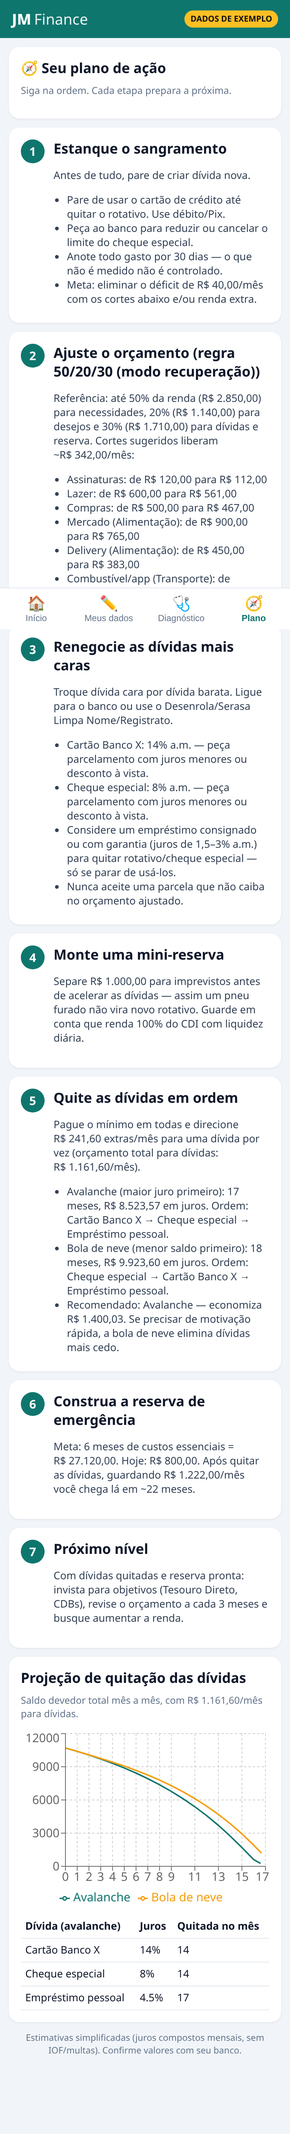
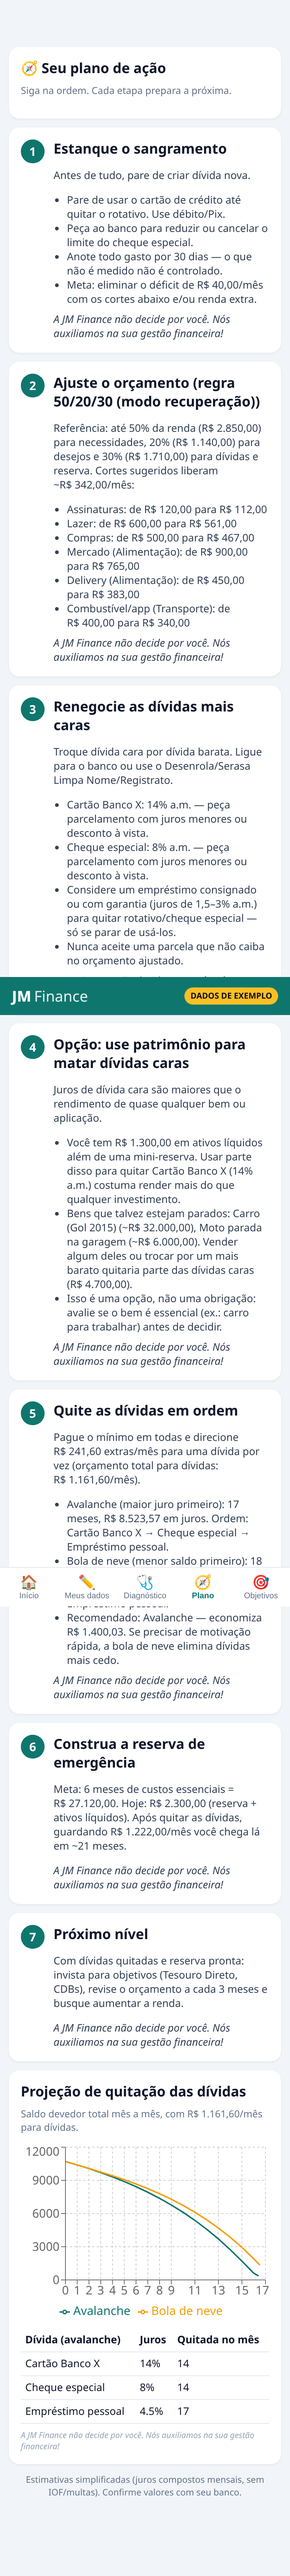
feat: patrimônio, aba Objetivos (inclui aposentadoria) e aviso 'não decide por você'
- Meus dados: seção Patrimônio (imóvel, veículo, investimentos, conta/poupança, outros; liquidez)
- Diagnóstico: patrimônio total, patrimônio líquido e ativos líquidos; ativos líquidos contam como reserva; score considera patrimônio negativo
- Plano: opção (não obrigação) de usar ativos líquidos/bens parados para quitar dívidas caras
- Nova aba Objetivos: aporte mensal, viabilidade após plano de dívidas, progresso e alternativas (prazo, valor, corte)
- Aposentadoria: capital necessário e aporte com rendimento real editável (padrão 0,5% a.m.)
- Aviso discreto abaixo de cada bloco de resultado
- Migração automática de dados antigos do localStorage; exemplo inclui bens e objetivos

diff --git a/src/finance.ts b/src/finance.ts
@@ -2,7 +2,13 @@ export type Income = { id: string; name: string; amount: number };
 export type Expense = { id: string; name: string; amount: number; category: Category; kind: 'fixa' | 'variavel' };
 export type DebtType = 'cartao_rotativo' | 'cheque_especial' | 'emprestimo_pessoal' | 'consignado' | 'financiamento' | 'outro';
 export type Debt = { id: string; name: string; type: DebtType; balance: number; rate: number; minPayment: number };
-export type Data = { incomes: Income[]; expenses: Expense[]; debts: Debt[]; reserve: number; isExample?: boolean };
+export type AssetType = 'imovel' | 'veiculo' | 'investimentos' | 'conta' | 'outros';
+export type Asset = { id: string; name: string; type: AssetType; value: number; liquid: boolean };
+export type GoalType = 'viagem' | 'compra' | 'aposentadoria' | 'reserva' | 'outro';
+export type Priority = 'alta' | 'media' | 'baixa';
+export type Retire = { monthlyIncome: number; age: number; retireAge: number; rate: number };
+export type Goal = { id: string; name: string; type: GoalType; target: number; date: string; saved: number; priority: Priority; retire?: Retire };
+export type Data = { incomes: Income[]; expenses: Expense[]; debts: Debt[]; reserve: number; assets: Asset[]; goals: Goal[]; isExample?: boolean };
 export type Category = 'moradia' | 'alimentacao' | 'transporte' | 'saude' | 'educacao' | 'lazer' | 'assinaturas' | 'compras' | 'outros';
 
 export const CATEGORIES: Record<Category, { label: string; group: 'necessidade' | 'desejo' }> = {
@@ -21,11 +27,30 @@ export const DEBT_TYPES: Record<DebtType, string> = {
   consignado: 'Consignado', financiamento: 'Financiamento', outro: 'Outro',
 };
 
+export const ASSET_TYPES: Record<AssetType, { label: string; liquid: boolean }> = {
+  imovel: { label: 'Imóvel', liquid: false }, veiculo: { label: 'Veículo', liquid: false },
+  investimentos: { label: 'Investimentos', liquid: true }, conta: { label: 'Saldo em conta/poupança', liquid: true }, outros: { label: 'Outros', liquid: false },
+};
+export const GOAL_TYPES: Record<GoalType, string> = { viagem: 'Viagem', compra: 'Compra', aposentadoria: 'Aposentadoria', reserva: 'Reserva', outro: 'Outro' };
+export const PRIORITIES: Record<Priority, string> = { alta: 'Alta', media: 'Média', baixa: 'Baixa' };
+export const DISCLAIMER = 'A JM Finance não decide por você. Nós auxiliamos na sua gestão financeira!';
+
 export const brl = (n: number) => n.toLocaleString('pt-BR', { style: 'currency', currency: 'BRL' });
 export const pct = (n: number) => `${(n * 100).toLocaleString('pt-BR', { maximumFractionDigits: 1 })}%`;
 export const uid = () => Math.random().toString(36).slice(2, 10);
 
-export const emptyData = (): Data => ({ incomes: [], expenses: [], debts: [], reserve: 0 });
+export const emptyData = (): Data => ({ incomes: [], expenses: [], debts: [], reserve: 0, assets: [], goals: [] });
+// Migra dados antigos (sem assets/goals) sem quebrar
+export function migrate(raw: unknown): Data {
+  const d = (raw && typeof raw === 'object' ? raw : {}) as Partial<Data>;
+  const arr = <T,>(v: unknown) => (Array.isArray(v) ? v as T[] : []);
+  return {
+    ...emptyData(), ...d,
+    incomes: arr<Income>(d.incomes), expenses: arr<Expense>(d.expenses), debts: arr<Debt>(d.debts),
+    assets: arr<Asset>(d.assets), goals: arr<Goal>(d.goals), reserve: Number(d.reserve) || 0,
+  };
+}
+const ym = (monthsAhead: number) => { const t = new Date(); t.setMonth(t.getMonth() + monthsAhead); return t.toISOString().slice(0, 7); };
 export const exampleData = (): Data => ({
   isExample: true,
   reserve: 800,
@@ -45,6 +70,16 @@ export const exampleData = (): Data => ({
     { id: uid(), name: 'Cheque especial', type: 'cheque_especial', balance: 1200, rate: 8, minPayment: 150 },
     { id: uid(), name: 'Empréstimo pessoal', type: 'emprestimo_pessoal', balance: 6000, rate: 4.5, minPayment: 420 },
   ],
+  assets: [
+    { id: uid(), name: 'Carro (Gol 2015)', type: 'veiculo', value: 32000, liquid: false },
+    { id: uid(), name: 'Poupança', type: 'conta', value: 1500, liquid: true },
+    { id: uid(), name: 'Moto parada na garagem', type: 'veiculo', value: 6000, liquid: false },
+  ],
+  goals: [
+    { id: uid(), name: 'Viagem para o Nordeste', type: 'viagem', target: 6000, date: ym(12), saved: 300, priority: 'media' },
+    { id: uid(), name: 'Notebook novo', type: 'compra', target: 4000, date: ym(6), saved: 0, priority: 'baixa' },
+    { id: uid(), name: 'Aposentadoria', type: 'aposentadoria', target: 0, date: '', saved: 0, priority: 'alta', retire: { monthlyIncome: 4000, age: 32, retireAge: 65, rate: 0.5 } },
+  ],
 });
 
 const sum = (a: { amount: number }[]) => a.reduce((s, x) => s + (Number(x.amount) || 0), 0);
@@ -63,7 +98,12 @@ export function diagnose(d: Data) {
   const dti = income ? minPayments / income : 0;
   const essentials = d.expenses.filter(e => CATEGORIES[e.category].group === 'necessidade').reduce((s, e) => s + e.amount, 0);
   const wants = expenses - essentials;
-  const reserveMonths = essentials + minPayments > 0 ? d.reserve / (essentials + minPayments) : 0;
+  const assets = d.assets || [];
+  const totalAssets = assets.reduce((s, a) => s + (Number(a.value) || 0), 0);
+  const liquidAssets = assets.filter(a => a.liquid).reduce((s, a) => s + (Number(a.value) || 0), 0);
+  const netWorth = totalAssets + d.reserve - d.debts.reduce((s, x) => s + x.balance, 0);
+  const effReserve = d.reserve + liquidAssets; // ativos líquidos contam como reserva
+  const reserveMonths = essentials + minPayments > 0 ? effReserve / (essentials + minPayments) : 0;
   const expensive = d.debts.filter(x => x.type === 'cartao_rotativo' || x.type === 'cheque_especial' || x.rate >= 5);
   const monthlyInterest = d.debts.reduce((s, x) => s + x.balance * x.rate / 100, 0);
 
@@ -74,6 +114,7 @@ export function diagnose(d: Data) {
   score -= Math.min(20, expensive.length * 10);
   if (reserveMonths < 1) score -= 15; else if (reserveMonths < 3) score -= 8; else if (reserveMonths < 6) score -= 3;
   if (income && totalDebt / income > 6) score -= 10;
+  if (netWorth < 0) score -= 5;
   score = Math.max(0, Math.round(score));
   const level: Level = score < 40 ? 'crítico' : score < 60 ? 'atenção' : score < 80 ? 'estável' : 'saudável';
   const levelText: Record<Level, string> = {
@@ -96,12 +137,15 @@ export function diagnose(d: Data) {
   }
   if (monthlyInterest > 0) f.push({ tone: monthlyInterest > income * 0.05 ? 'bad' : 'warn', title: `Você paga cerca de ${brl(monthlyInterest)} de juros por mês`, text: 'Esse dinheiro não abate nada da dívida — é o "custo" de dever. Quanto antes quitar as dívidas caras, mais sobra.' });
   expensive.forEach(x => f.push({ tone: 'bad', title: `Dívida cara: ${x.name} (${x.rate}% a.m.)`, text: `${x.rate}% ao mês equivale a ~${pct(Math.pow(1 + x.rate / 100, 12) - 1)} ao ano. ${x.type === 'cartao_rotativo' ? 'O rotativo do cartão é a dívida mais cara do Brasil.' : x.type === 'cheque_especial' ? 'Cheque especial nunca deve ser usado como renda extra.' : ''} Troque por uma dívida mais barata ou quite primeiro.` }));
+  if (totalAssets > 0) f.push(netWorth < 0
+    ? { tone: 'bad', title: `Patrimônio líquido negativo: ${brl(netWorth)}`, text: 'Você deve mais do que tem. Prioridade é reduzir dívidas antes de comprar novos bens.' }
+    : { tone: 'good', title: `Patrimônio líquido: ${brl(netWorth)}`, text: `É o que sobraria se você vendesse tudo e quitasse as dívidas. Desse total, ${brl(liquidAssets + d.reserve)} está disponível rápido (líquido).` });
   f.push(reserveMonths < 1
-    ? { tone: 'bad', title: `Reserva cobre ${reserveMonths.toFixed(1)} mês`, text: 'Sem reserva, qualquer imprevisto vira dívida cara. Meta inicial: 1 mês de custos essenciais.' }
-    : reserveMonths < 6 ? { tone: 'warn', title: `Reserva cobre ${reserveMonths.toFixed(1)} meses`, text: 'Bom começo. A meta é de 3 a 6 meses de custos essenciais.' }
+    ? { tone: 'bad', title: `Reserva cobre ${reserveMonths.toFixed(1)} mês`, text: (liquidAssets ? `Considerando reserva + ativos líquidos (${brl(effReserve)}). ` : '') + 'Sem reserva, qualquer imprevisto vira dívida cara. Meta inicial: 1 mês de custos essenciais.' }
+    : reserveMonths < 6 ? { tone: 'warn', title: `Reserva cobre ${reserveMonths.toFixed(1)} meses`, text: (liquidAssets ? `Considerando reserva + ativos líquidos (${brl(effReserve)}). ` : '') + 'Bom começo. A meta é de 3 a 6 meses de custos essenciais.' }
     : { tone: 'good', title: `Reserva cobre ${reserveMonths.toFixed(1)} meses`, text: 'Reserva de emergência completa.' });
 
-  return { reserve: d.reserve, income, expenses, minPayments, totalDebt, outflow, balance, commitment, dti, essentials, wants, reserveMonths, expensive, monthlyInterest, score, level, levelText: levelText[level], findings: f };
+  return { reserve: d.reserve, effReserve, totalAssets, liquidAssets, netWorth, income, expenses, minPayments, totalDebt, outflow, balance, commitment, dti, essentials, wants, reserveMonths, expensive, monthlyInterest, score, level, levelText: levelText[level], findings: f };
 }
 
 export type Strategy = 'avalanche' | 'snowball';
@@ -172,7 +216,17 @@ export function actionPlan(d: Data) {
     ]});
   const surplus = Math.max(0, r.balance + savings);
   const reserveTarget1 = r.essentials + r.minPayments;
-  if (r.reserve < reserveTarget1 * 0.5 && d.debts.length) steps.push({
+  if (r.expensive.length && r.totalAssets > 0) {
+    const expDebt = r.expensive.reduce((s, x) => s + x.balance, 0);
+    const spareLiquid = Math.max(0, r.liquidAssets + r.reserve - Math.min(1000, reserveTarget1 * 0.5));
+    const idle = (d.assets || []).filter(a => !a.liquid && a.type !== 'imovel');
+    const items: string[] = [];
+    if (spareLiquid > 0) items.push(`Você tem ${brl(spareLiquid)} em ativos líquidos além de uma mini-reserva. Usar parte disso para quitar ${order(r.expensive, 'avalanche')[0].name} (${order(r.expensive, 'avalanche')[0].rate}% a.m.) costuma render mais do que qualquer investimento.`);
+    if (idle.length) items.push(`Bens que talvez estejam parados: ${idle.map(a => `${a.name} (~${brl(a.value)})`).join(', ')}. Vender algum deles ou trocar por um mais barato quitaria parte das dívidas caras (${brl(expDebt)}).`);
+    items.push('Isso é uma opção, não uma obrigação: avalie se o bem é essencial (ex.: carro para trabalhar) antes de decidir.');
+    if (spareLiquid > 0 || idle.length) steps.push({ title: 'Opção: use patrimônio para matar dívidas caras', text: 'Juros de dívida cara são maiores que o rendimento de quase qualquer bem ou aplicação.', items });
+  }
+  if (r.effReserve < reserveTarget1 * 0.5 && d.debts.length) steps.push({
     title: 'Monte uma mini-reserva', text: `Separe ${brl(Math.min(1000, reserveTarget1 * 0.5))} para imprevistos antes de acelerar as dívidas — assim um pneu furado não vira novo rotativo. Guarde em conta que renda 100% do CDI com liquidez diária.` });
   let payoff = null as null | { budget: number; av: ReturnType<typeof simulate>; sb: ReturnType<typeof simulate> };
   if (d.debts.length) {
@@ -189,7 +243,61 @@ export function actionPlan(d: Data) {
       ]});
   }
   if (r.reserveMonths < 6) steps.push({
-    title: 'Construa a reserva de emergência', text: `Meta: 6 meses de custos essenciais = ${brl(reserveTarget1 * 6)}. Hoje: ${brl(r.reserve)}. ${surplus > 0 ? `Após quitar as dívidas, guardando ${brl(surplus + r.minPayments)}/mês você chega lá em ~${Math.ceil(Math.max(0, reserveTarget1 * 6 - r.reserve) / (surplus + r.minPayments))} meses.` : 'Primeiro crie folga no orçamento.'}` });
+    title: 'Construa a reserva de emergência', text: `Meta: 6 meses de custos essenciais = ${brl(reserveTarget1 * 6)}. Hoje: ${brl(r.effReserve)}${r.liquidAssets ? ' (reserva + ativos líquidos)' : ''}. ${surplus > 0 ? `Após quitar as dívidas, guardando ${brl(surplus + r.minPayments)}/mês você chega lá em ~${Math.ceil(Math.max(0, reserveTarget1 * 6 - r.effReserve) / (surplus + r.minPayments))} meses.` : 'Primeiro crie folga no orçamento.'}` });
   steps.push({ title: 'Próximo nível', text: 'Com dívidas quitadas e reserva pronta: invista para objetivos (Tesouro Direto, CDBs), revise o orçamento a cada 3 meses e busque aumentar a renda.' });
-  return { steps, cuts, savings, guide, payoff, surplus };
+  // Orçamento livre para objetivos: com dívidas, 80% da sobra vai para elas
+  const freeForGoals = d.debts.length ? surplus * 0.2 : surplus;
+  return { steps, cuts, savings, guide, payoff, surplus, freeForGoals };
+}
+
+// ---------- Objetivos ----------
+export function monthsUntil(date: string) {
+  if (!date) return 0;
+  const [y, m] = date.split('-').map(Number); const t = new Date();
+  return Math.max(1, (y - t.getFullYear()) * 12 + (m - 1 - t.getMonth()));
+}
+export function retirementCalc(r: Retire, saved: number) {
+  const i = (r.rate || 0.5) / 100;
+  const n = Math.max(1, (r.retireAge - r.age) * 12);
+  const capital = r.monthlyIncome / i; // viver de renda (perpetuidade real)
+  const fv = saved * Math.pow(1 + i, n);
+  const monthly = Math.max(0, (capital - fv) * i / (Math.pow(1 + i, n) - 1));
+  return { capital, monthly, months: n };
+}
+export type GoalResult = { goal: Goal; target: number; months: number; need: number; allocated: number; allocatedAfter: number; fits: boolean; progress: number;
+  alt?: { extendTo: string; extendMonths: number; reduceTo: number; cut: number } };
+const PR: Record<Priority, number> = { alta: 0, media: 1, baixa: 2 };
+export function evaluateGoals(d: Data) {
+  const plan = actionPlan(d); const r = diagnose(d);
+  const payoffMonths = plan.payoff ? (plan.payoff.av.feasible ? plan.payoff.av.months : null) : 0;
+  // depois de quitar as dívidas, o dinheiro das parcelas fica livre
+  const freeAfter = d.debts.length ? plan.surplus + r.minPayments : plan.freeForGoals;
+  let avail = plan.freeForGoals, availAfter = freeAfter;
+  const results: GoalResult[] = [];
+  const sorted = [...(d.goals || [])].sort((a, b) => PR[a.priority] - PR[b.priority]);
+  for (const g of sorted) {
+    let target = g.target, months = monthsUntil(g.date), need: number;
+    if (g.type === 'aposentadoria' && g.retire) {
+      const rc = retirementCalc(g.retire, g.saved); target = rc.capital; months = rc.months; need = rc.monthly;
+    } else need = Math.max(0, target - g.saved) / Math.max(1, months);
+    const allocated = Math.min(need, Math.max(0, avail)); avail -= allocated;
+    const allocatedAfter = Math.min(Math.max(need, allocated), Math.max(0, availAfter)); availAfter -= allocatedAfter;
+    const fits = need <= allocated + 0.5;
+    const progress = target ? Math.min(1, g.saved / target) : 0;
+    let alt: GoalResult['alt'];
+    if (!fits) {
+      const remaining = Math.max(0, target - g.saved);
+      // meses até completar: "allocated" durante as dívidas, "allocatedAfter" depois
+      let extendMonths = 0;
+      if (payoffMonths !== null) {
+        const during = allocated * payoffMonths;
+        if (during >= remaining) extendMonths = allocated > 0 ? Math.ceil(remaining / allocated) : 0;
+        else if (allocatedAfter > 1) extendMonths = payoffMonths + Math.ceil((remaining - during) / allocatedAfter);
+      }
+      if (extendMonths > 600) extendMonths = 0;
+      alt = { extendMonths, extendTo: extendMonths ? ym(extendMonths) : '', reduceTo: g.type === 'aposentadoria' && g.retire ? Math.max(0, allocated / need * g.retire.monthlyIncome) : g.saved + allocated * months, cut: need - allocated };
+    }
+    results.push({ goal: g, target, months, need, allocated, allocatedAfter, fits, progress, alt });
+  }
+  return { results, free: plan.freeForGoals, freeAfter, payoffMonths, hasExpensive: r.expensive.length > 0, hasDebts: d.debts.length > 0, surplus: plan.surplus };
 }

diff --git a/src/App.tsx b/src/App.tsx
@@ -1,13 +1,14 @@
 import { useEffect, useMemo, useState } from 'react';
 import { PieChart, Pie, Cell, Tooltip, ResponsiveContainer, BarChart, Bar, XAxis, YAxis, LineChart, Line, Legend, CartesianGrid } from 'recharts';
-import { Data, Category, DebtType, CATEGORIES, DEBT_TYPES, brl, pct, uid, emptyData, exampleData, diagnose, actionPlan, order } from './finance';
+import { Data, Category, DebtType, AssetType, GoalType, Priority, Goal, CATEGORIES, DEBT_TYPES, ASSET_TYPES, GOAL_TYPES, PRIORITIES, DISCLAIMER, brl, pct, uid, emptyData, exampleData, diagnose, actionPlan, order, migrate, evaluateGoals } from './finance';
 
-type Tab = 'inicio' | 'dados' | 'diagnostico' | 'plano';
+type Tab = 'inicio' | 'dados' | 'diagnostico' | 'plano' | 'objetivos';
 const KEY = 'jmfinance:data';
 const COLORS = ['#0f766e', '#2563eb', '#f59e0b', '#ef4444', '#8b5cf6', '#ec4899', '#14b8a6', '#64748b', '#84cc16'];
 const LEVEL_COLOR: Record<string, string> = { 'crítico': '#dc2626', 'atenção': '#f59e0b', 'estável': '#2563eb', 'saudável': '#16a34a' };
 
-function load(): Data { try { return JSON.parse(localStorage.getItem(KEY) || '') } catch { return emptyData() } }
+function load(): Data { try { return migrate(JSON.parse(localStorage.getItem(KEY) || '')) } catch { return emptyData() } }
+const Disc = () => <p className="jm-disc">{DISCLAIMER}</p>;
 
 export default function App() {
   const [data, setData] = useState<Data>(load);
@@ -24,9 +25,10 @@ export default function App() {
         {tab === 'dados' && <Inputs data={data} upd={upd} setData={setData} />}
         {tab === 'diagnostico' && (hasData ? <Diagnosis data={data} /> : <Empty go={setTab} />)}
         {tab === 'plano' && (hasData ? <Plan data={data} /> : <Empty go={setTab} />)}
+        {tab === 'objetivos' && <Goals data={data} upd={upd} />}
       </main>
       <nav>
-        {([['inicio', '🏠', 'Início'], ['dados', '✏', 'Meus dados'], ['diagnostico', '🩺', 'Diagnóstico'], ['plano', '🧭', 'Plano']] as const).map(([k, i, l]) =>
+        {([['inicio', '🏠', 'Início'], ['dados', '✏', 'Meus dados'], ['diagnostico', '🩺', 'Diagnóstico'], ['plano', '🧭', 'Plano'], ['objetivos', '🎯', 'Objetivos']] as const).map(([k, i, l]) =>
           <button key={k} className={tab === k ? 'on' : ''} onClick={() => setTab(k)}><span>{i}</span>{l}</button>)}
       </nav>
     </div>
@@ -72,7 +74,7 @@ function ScoreCard({ r }: { r: ReturnType<typeof diagnose> }) {
   const c = LEVEL_COLOR[r.level];
   return <div className="card score" style={{ borderColor: c }}>
     <div className="ring" style={{ background: `conic-gradient(${c} ${r.score * 3.6}deg, #e5e7eb 0)` }}><div><b>{r.score}</b><small>/100</small></div></div>
-    <div><small>Saúde financeira</small><h2 style={{ color: c }}>{r.level.toUpperCase()}</h2><p>{r.levelText}</p></div>
+    <div><small>Saúde financeira</small><h2 style={{ color: c }}>{r.level.toUpperCase()}</h2><p>{r.levelText}</p><Disc /></div>
   </div>;
 }
 
@@ -114,6 +116,20 @@ function Inputs({ data, upd, setData }: { data: Data; upd: (p: Partial<Data>) =>
         </div></div>)}
       <button className="btn ghost" onClick={() => mark({ debts: [...data.debts, { id: uid(), name: 'Nova dívida', type: 'outro', balance: 0, rate: 0, minPayment: 0 }] })}>+ Adicionar dívida</button>
     </div>
+    <div className="card"><h3>🏠 Patrimônio (bens e aplicações)</h3>
+      <p className="hint">O que você tem: imóvel, carro, investimentos, dinheiro em conta. "Líquido" = dá para usar rápido sem perder valor.</p>
+      {data.assets.map(i => <div className="debt" key={i.id}>
+        <div className="row"><input value={i.name} onChange={e => mark({ assets: data.assets.map(x => x.id === i.id ? { ...x, name: e.target.value } : x) })} />
+          <button className="x" onClick={() => mark({ assets: data.assets.filter(x => x.id !== i.id) })}>✕</button></div>
+        <div className="row wrap">
+          <label>Tipo<select value={i.type} onChange={e => { const t = e.target.value as AssetType; mark({ assets: data.assets.map(x => x.id === i.id ? { ...x, type: t, liquid: ASSET_TYPES[t].liquid } : x) }); }}>
+            {Object.entries(ASSET_TYPES).map(([k, v]) => <option key={k} value={k}>{v.label}</option>)}</select></label>
+          <label>Valor estimado<input type="number" inputMode="decimal" value={i.value || ''} onChange={e => mark({ assets: data.assets.map(x => x.id === i.id ? { ...x, value: num(e.target.value) } : x) })} /></label>
+          <label>Liquidez<select value={i.liquid ? 'l' : 'i'} onChange={e => mark({ assets: data.assets.map(x => x.id === i.id ? { ...x, liquid: e.target.value === 'l' } : x) })}>
+            <option value="l">Líquido</option><option value="i">Ilíquido</option></select></label>
+        </div></div>)}
+      <button className="btn ghost" onClick={() => mark({ assets: [...data.assets, { id: uid(), name: 'Novo bem', type: 'outros', value: 0, liquid: false }] })}>+ Adicionar bem</button>
+    </div>
     <div className="card"><h3>🛟 Reserva de emergência</h3>
       <label>Quanto você tem guardado hoje<input type="number" value={data.reserve || ''} onChange={e => mark({ reserve: num(e.target.value) })} /></label>
     </div>
@@ -135,14 +151,22 @@ function Diagnosis({ data }: { data: Data }) {
       <Stat label="Juros pagos/mês" v={brl(r.monthlyInterest)} bad={r.monthlyInterest > 0} />
       <Stat label="Reserva de emergência" v={`${r.reserveMonths.toFixed(1)} meses`} bad={r.reserveMonths < 1} />
     </div>
+    <div className="card"><h3>🏠 Patrimônio</h3>
+      <div className="grid3">
+        <Stat label="Patrimônio total" v={brl(r.totalAssets + r.reserve)} />
+        <Stat label="Patrimônio líquido" v={brl(r.netWorth)} bad={r.netWorth < 0} />
+        <Stat label="Ativos líquidos" v={brl(r.liquidAssets + r.reserve)} />
+      </div>
+      <p className="hint">Patrimônio líquido = tudo o que você tem − tudo o que deve. Ativos líquidos (incluindo a reserva) contam para a reserva de emergência.</p>
+      <Disc /></div>
     <div className="card"><h3>O que isso significa</h3>
-      {r.findings.map((f, i) => <div key={i} className={`finding ${f.tone}`}><b>{f.title}</b><p>{f.text}</p></div>)}</div>
+      {r.findings.map((f, i) => <div key={i} className={`finding ${f.tone}`}><b>{f.title}</b><p>{f.text}</p></div>)}<Disc /></div>
     <div className="card"><h3>Para onde vai seu dinheiro</h3>
       <ResponsiveContainer width="100%" height={260}><PieChart><Pie data={pie} dataKey="value" nameKey="name" outerRadius={90} innerRadius={45}>
-        {pie.map((_, i) => <Cell key={i} fill={COLORS[i % COLORS.length]} />)}</Pie><Tooltip formatter={(v) => brl(Number(v))} /><Legend /></PieChart></ResponsiveContainer></div>
+        {pie.map((_, i) => <Cell key={i} fill={COLORS[i % COLORS.length]} />)}</Pie><Tooltip formatter={(v) => brl(Number(v))} /><Legend /></PieChart></ResponsiveContainer><Disc /></div>
     <div className="card"><h3>Entradas x saídas</h3>
       <ResponsiveContainer width="100%" height={220}><BarChart data={bars}><XAxis dataKey="name" /><YAxis width={50} /><Tooltip formatter={(v) => brl(Number(v))} />
-        <Bar dataKey="valor">{bars.map((b, i) => <Cell key={i} fill={b.valor < 0 ? '#dc2626' : COLORS[i]} />)}</Bar></BarChart></ResponsiveContainer></div>
+        <Bar dataKey="valor">{bars.map((b, i) => <Cell key={i} fill={b.valor < 0 ? '#dc2626' : COLORS[i]} />)}</Bar></BarChart></ResponsiveContainer><Disc /></div>
   </>;
 }
 
@@ -152,15 +176,74 @@ function Plan({ data }: { data: Data }) {
   return <>
     <div className="card"><h3>🧭 Seu plano de ação</h3><p className="hint">Siga na ordem. Cada etapa prepara a próxima.</p></div>
     {p.steps.map((s, i) => <div className="card step" key={i}><div className="n">{i + 1}</div><div><h3>{s.title}</h3><p>{s.text}</p>
-      {s.items && <ul>{s.items.map((x, j) => <li key={j}>{x}</li>)}</ul>}</div></div>)}
+      {s.items && <ul>{s.items.map((x, j) => <li key={j}>{x}</li>)}</ul>}<Disc /></div></div>)}
     {p.payoff && <div className="card"><h3>Projeção de quitação das dívidas</h3>
       <p className="hint">Saldo devedor total mês a mês, com {brl(p.payoff.budget)}/mês para dívidas.</p>
       <ResponsiveContainer width="100%" height={240}><LineChart data={line}><CartesianGrid strokeDasharray="3 3" /><XAxis dataKey="mes" /><YAxis width={55} />
         <Tooltip formatter={(v) => brl(Number(v))} labelFormatter={l => `Mês ${l}`} /><Legend />
         <Line dataKey="Avalanche" stroke="#0f766e" dot={false} strokeWidth={2} /><Line dataKey="Bola de neve" stroke="#f59e0b" dot={false} strokeWidth={2} /></LineChart></ResponsiveContainer>
       <table><thead><tr><th>Dívida (avalanche)</th><th>Juros</th><th>Quitada no mês</th></tr></thead><tbody>
-        {order(data.debts, 'avalanche').map(d => <tr key={d.id}><td>{d.name}</td><td>{d.rate}%</td><td>{p.payoff!.av.payoff[d.id] ?? '—'}</td></tr>)}</tbody></table>
+        {order(data.debts, 'avalanche').map(d => <tr key={d.id}><td>{d.name}</td><td>{d.rate}%</td><td>{p.payoff!.av.payoff[d.id] ?? '—'}</td></tr>)}</tbody></table><Disc />
     </div>}
     <p className="disc">Estimativas simplificadas (juros compostos mensais, sem IOF/multas). Confirme valores com seu banco.</p>
+  </>;
+}
+
+const fmtYm = (s: string) => { if (!s) return '—'; const [y, m] = s.split('-'); return `${m}/${y}`; };
+
+function Goals({ data, upd }: { data: Data; upd: (p: Partial<Data>) => void }) {
+  const ev = useMemo(() => evaluateGoals(data), [data]);
+  const set = (id: string, p: Partial<Goal>) => upd({ isExample: false, goals: data.goals.map(g => g.id === id ? { ...g, ...p } : g) });
+  const add = () => { const t = new Date(); t.setFullYear(t.getFullYear() + 1);
+    upd({ isExample: false, goals: [...data.goals, { id: uid(), name: 'Novo objetivo', type: 'compra', target: 0, date: t.toISOString().slice(0, 7), saved: 0, priority: 'media' }] }); };
+  return <>
+    <div className="card"><h3>🎯 Meus objetivos</h3>
+      <p className="hint">Liste o que você quer conquistar. Calculamos quanto guardar por mês e se cabe no seu orçamento depois do plano de dívidas.</p>
+      <div className="grid2" style={{ marginBottom: 0 }}>
+        <Stat label="Livre para objetivos/mês" v={brl(ev.free)} bad={ev.free <= 0} />
+        <Stat label="Necessário p/ todos" v={brl(ev.results.reduce((s, x) => s + x.need, 0))} />
+      </div>
+      {ev.hasDebts && <p className="hint" style={{ marginTop: 8 }}>{ev.payoffMonths ? `Depois de quitar as dívidas (em ~${ev.payoffMonths} meses), sobrarão cerca de ${brl(ev.freeAfter)}/mês para objetivos.` : 'Com o orçamento atual as dívidas não terminam — renegociar é o primeiro passo para liberar dinheiro para objetivos.'}</p>}
+      {ev.hasExpensive && <div className="finding bad"><b>Atenção: você tem dívidas caras</b><p>Enquanto existirem dívidas como rotativo ou cheque especial, a prioridade é quitá-las — os juros delas crescem mais rápido do que qualquer objetivo. Por isso só 20% da sua sobra é considerada para objetivos agora.</p></div>}
+      {!ev.hasExpensive && ev.hasDebts && <div className="finding warn"><b>Dívidas primeiro</b><p>Enquanto quita as dívidas, 80% da sobra vai para elas e 20% para objetivos.</p></div>}
+      <Disc /></div>
+    {ev.results.map(({ goal: g, target, months, need, allocated, allocatedAfter, fits, progress, alt }) => <div className="card" key={g.id}>
+      <div className="row"><input value={g.name} onChange={e => set(g.id, { name: e.target.value })} />
+        <button className="x" onClick={() => upd({ isExample: false, goals: data.goals.filter(x => x.id !== g.id) })}>✕</button></div>
+      <div className="row wrap">
+        <label>Tipo<select value={g.type} onChange={e => { const t = e.target.value as GoalType; set(g.id, { type: t, retire: t === 'aposentadoria' ? (g.retire ?? { monthlyIncome: 3000, age: 30, retireAge: 65, rate: 0.5 }) : g.retire }); }}>
+          {Object.entries(GOAL_TYPES).map(([k, v]) => <option key={k} value={k}>{v}</option>)}</select></label>
+        <label>Prioridade<select value={g.priority} onChange={e => set(g.id, { priority: e.target.value as Priority })}>
+          {Object.entries(PRIORITIES).map(([k, v]) => <option key={k} value={k}>{v}</option>)}</select></label>
+        <label>Já guardado<input type="number" inputMode="decimal" value={g.saved || ''} onChange={e => set(g.id, { saved: num(e.target.value) })} /></label>
+      </div>
+      {g.type === 'aposentadoria' && g.retire ? <div className="row wrap">
+        <label>Renda mensal desejada<input type="number" value={g.retire.monthlyIncome || ''} onChange={e => set(g.id, { retire: { ...g.retire!, monthlyIncome: num(e.target.value) } })} /></label>
+        <label>Idade atual<input type="number" value={g.retire.age || ''} onChange={e => set(g.id, { retire: { ...g.retire!, age: num(e.target.value) } })} /></label>
+        <label>Aposentar aos<input type="number" value={g.retire.retireAge || ''} onChange={e => set(g.id, { retire: { ...g.retire!, retireAge: num(e.target.value) } })} /></label>
+        <label>Rendimento real % a.m.<input type="number" step="0.1" value={g.retire.rate || ''} onChange={e => set(g.id, { retire: { ...g.retire!, rate: num(e.target.value) } })} /></label>
+      </div> : <div className="row wrap">
+        <label>Valor do objetivo<input type="number" inputMode="decimal" value={g.target || ''} onChange={e => set(g.id, { target: num(e.target.value) })} /></label>
+        <label>Data alvo<input type="month" value={g.date} onChange={e => set(g.id, { date: e.target.value })} /></label>
+      </div>}
+      <div className="progress"><div style={{ width: `${progress * 100}%` }} /></div>
+      <small className="hint">{brl(g.saved)} de {brl(target)} ({pct(progress)})</small>
+      <div className={`finding ${fits ? 'good' : 'warn'}`}>
+        {g.type === 'aposentadoria' && g.retire && <p>Para viver de {brl(g.retire.monthlyIncome)}/mês (valores de hoje) você precisa juntar cerca de <b>{brl(target)}</b> até os {g.retire.retireAge} anos ({Math.round(months / 12)} anos).</p>}
+        <b>Guardar {brl(need)}/mês {g.type !== 'aposentadoria' && `por ${months} meses`}</b>
+        <p>{fits ? '✅ Cabe no seu orçamento livre atual.' : `⚠ Não cabe agora: sobram ${brl(allocated)}/mês para este objetivo (pela ordem de prioridade).`}</p>
+        {alt && <ul>
+          {g.type === 'aposentadoria'
+            ? (ev.hasDebts && allocatedAfter >= need ? <li>Depois de quitar as dívidas, aportar {brl(need)}/mês já cabe — comece com o que puder agora e aumente depois.</li>
+              : alt.extendMonths > 0 && <li>Com seus aportes possíveis, leva cerca de {Math.round(alt.extendMonths / 12)} anos — considere adiar um pouco a aposentadoria.</li>)
+            : alt.extendMonths > 0 ? <li>Estender o prazo para {fmtYm(alt.extendTo)} ({alt.extendMonths} meses){ev.hasDebts && ev.payoffMonths ? ', usando a folga que aparece depois de quitar as dívidas' : ''}.</li>
+            : <li>Adiar este objetivo até sair das dívidas.</li>}
+          {alt.reduceTo > g.saved + 1 && <li>{g.type === 'aposentadoria' ? `Reduzir a renda desejada para ~${brl(alt.reduceTo)}/mês.` : `Reduzir o valor para ~${brl(alt.reduceTo)} mantendo a data.`}</li>}
+          <li>Cortar mais {brl(alt.cut)}/mês em gastos ou aumentar a renda nesse valor.</li>
+        </ul>}
+      </div>
+      <Disc />
+    </div>)}
+    <button className="btn full" onClick={add}>+ Adicionar objetivo</button>
   </>;
 }

diff --git a/src/index.css b/src/index.css
@@ -30,3 +30,9 @@ table{width:100%;border-collapse:collapse;font-size:14px;margin-top:8px}th,td{te
 nav{position:fixed;bottom:0;left:0;right:0;background:#fff;border-top:1px solid #e2e8f0;display:flex;justify-content:center;padding-bottom:env(safe-area-inset-bottom)}
 nav button{flex:1;max-width:180px;background:none;border:0;padding:8px 0;font-size:12px;color:#64748b;display:flex;flex-direction:column;align-items:center;cursor:pointer}
 nav button span{font-size:20px}nav button.on{color:#0f766e;font-weight:700}
+.jm-disc{font-size:11px;color:#94a3b8;margin:8px 0 0;font-style:italic}
+.grid3{display:grid;grid-template-columns:repeat(3,1fr);gap:8px}.grid3 .stat{box-shadow:none;background:#f8fafc;padding:8px}.grid3 .stat b{font-size:15px}
+.progress{height:10px;background:#e2e8f0;border-radius:99px;overflow:hidden;margin:8px 0 2px}.progress>div{height:100%;background:#0f766e}
+.finding ul{margin:4px 0;padding-left:18px;font-size:14px}
+nav button{font-size:11px;min-width:0}nav button span{font-size:19px}
+@media (max-width:360px){.grid3{grid-template-columns:1fr}}
